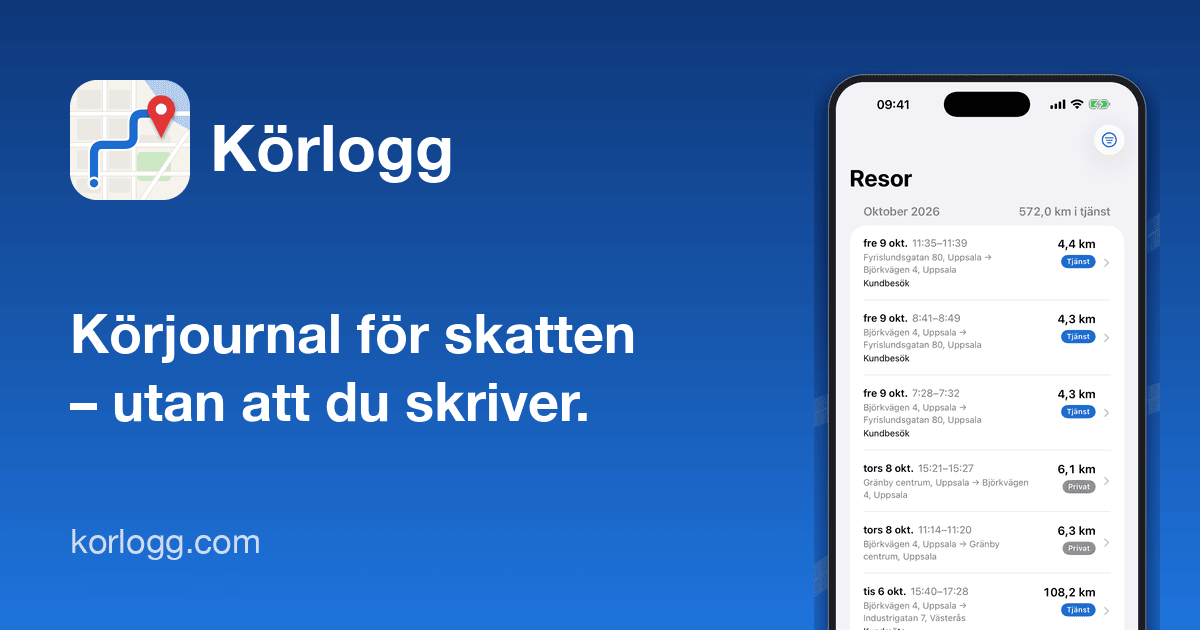
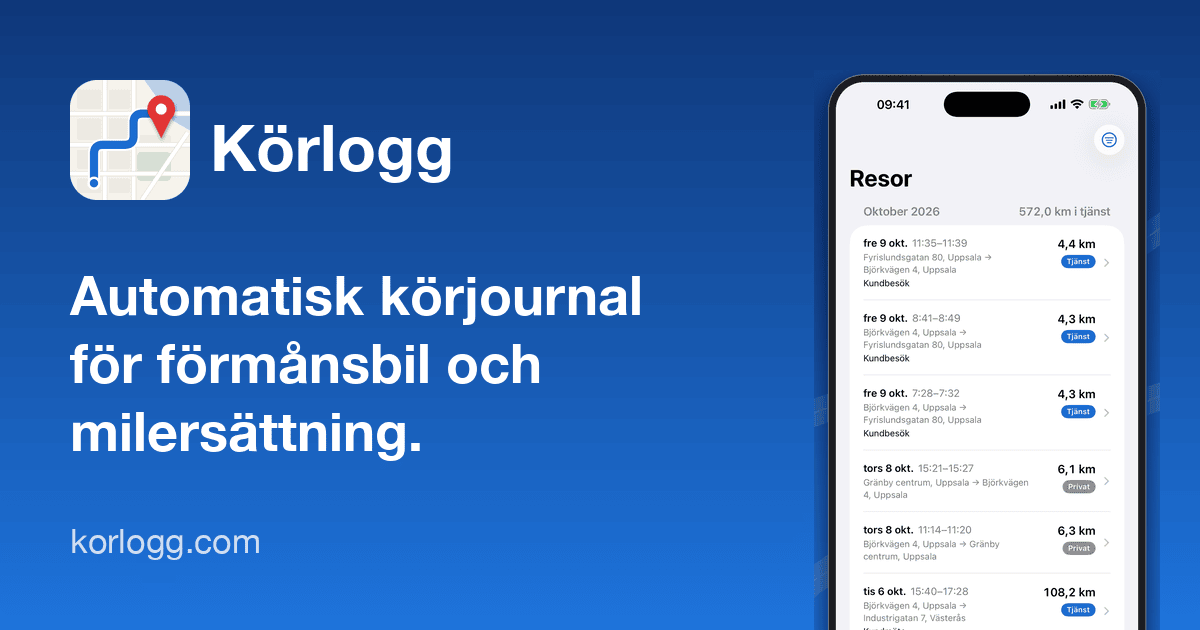
Swedish hero: Automatisk körjournal för förmånsbil och milersättning (Amir)

Changed region(s): [[0.0617, 0.4222, 0.555, 0.754]]

diff --git a/se/index.html b/se/index.html
@@ -3,7 +3,7 @@
 <head>
 <meta charset="utf-8">
 <meta name="viewport" content="width=device-width, initial-scale=1">
-<title>Körlogg – körjournal för skatten, milersättning och förmånsbil</title>
+<title>Körlogg – automatisk körjournal för förmånsbil och milersättning</title>
 <meta name="description" content="Körlogg loggar dina bilresor automatiskt. Svep tjänst eller privat och exportera körjournalen med de uppgifter Skatteverket frågar efter. Inget konto.">
 <link rel="canonical" href="https://korlogg.com/se/">
 <link rel="alternate" hreflang="en" href="https://korlogg.com/">
@@ -22,7 +22,7 @@
 <meta name="theme-color" content="#0b1220" media="(prefers-color-scheme: dark)">
 <meta property="og:type" content="website">
 <meta property="og:site_name" content="Körlogg">
-<meta property="og:title" content="Körlogg – körjournal för skatten, milersättning och förmånsbil">
+<meta property="og:title" content="Körlogg – automatisk körjournal för förmånsbil och milersättning">
 <meta property="og:description" content="Körlogg loggar dina bilresor automatiskt. Svep tjänst eller privat och exportera körjournalen med de uppgifter Skatteverket frågar efter. Inget konto.">
 <meta property="og:url" content="https://korlogg.com/se/">
 <meta property="og:image" content="https://korlogg.com/assets/og/sv.png">
@@ -30,7 +30,7 @@
 <meta property="og:image:height" content="630">
 <meta property="og:locale" content="sv_SE">
 <meta name="twitter:card" content="summary_large_image">
-<meta name="twitter:title" content="Körlogg – körjournal för skatten, milersättning och förmånsbil">
+<meta name="twitter:title" content="Körlogg – automatisk körjournal för förmånsbil och milersättning">
 <meta name="twitter:description" content="Körlogg loggar dina bilresor automatiskt. Svep tjänst eller privat och exportera körjournalen med de uppgifter Skatteverket frågar efter. Inget konto.">
 <meta name="twitter:image" content="https://korlogg.com/assets/og/sv.png">
 <link rel="icon" href="/favicon.ico" sizes="any">
@@ -61,8 +61,8 @@
 <section class="hero">
 <div class="wrap hero-grid">
 <div class="hero-text">
-<h1>Körjournal för skatten – utan att du skriver.</h1>
-<p class="lede">Milersättning, förmånsbil och Skatteverkets uppgifter – Körlogg loggar varje resa automatiskt.</p>
+<h1>Automatisk körjournal för förmånsbil och milersättning.</h1>
+<p class="lede">Varje resa loggas av sig själv – med uppgifterna Skatteverket kräver.</p>
 <div class="cta-row"><a class="store-badge" href="https://apps.apple.com/se/app/id6809322275"><picture><img src="/assets/badges/sv-black.svg" width="162" height="54" alt="Hämta i App Store"></picture></a></div>
 <p class="hero-note">För iPhone och iPad. En Android-version är under utveckling.</p>
 

diff --git a/tools/content.py b/tools/content.py
@@ -275,7 +275,7 @@ HOME = {
     ),
     # ------------------------------------------------------------------ Swedish
     "sv": dict(
-        title="Körlogg – körjournal för skatten, milersättning och förmånsbil",
+        title="Körlogg – automatisk körjournal för förmånsbil och milersättning",
         desc="Körlogg loggar dina bilresor automatiskt. Svep tjänst eller privat och exportera körjournalen med de uppgifter Skatteverket frågar efter. Inget konto.",
         h1="Körjournalen som sköter sig själv",
         lede="Körlogg märker när du börjar köra och loggar resan med GPS. Du sveper tjänst eller privat – och rapporten är klar när du behöver den.",
@@ -497,8 +497,8 @@ TAX = {
                    example="Example: 2,000 business kilometres in your own car in Germany = €600.",
                    note="Official rates in force for 2026, checked on 10 October 2026. These are the countries' rates – not the price of Körlogg.")),
     "sv": dict(
-        h1="Körjournal för skatten – utan att du skriver.",
-        lede="Milersättning, förmånsbil och Skatteverkets uppgifter – Körlogg loggar varje resa automatiskt.",
+        h1="Automatisk körjournal för förmånsbil och milersättning.",
+        lede="Varje resa loggas av sig själv – med uppgifterna Skatteverket kräver.",
         who=dict(h2="Vem är Körlogg för?", cards=[
             ("Du som har förmånsbil", "Visa att den privata körningen håller sig inom ringa omfattning – högst 10 tillfällen och 100 mil per år – med en körjournal som för sig själv."),
             ("Du som har egen firma", "Kör du i tjänsten med egen bil får du göra avdrag per mil. Körlogg samlar underlaget: datum, adresser, ärende och kilometer, resa för resa."),

diff --git a/tools/images.py b/tools/images.py
@@ -12,7 +12,7 @@ ICON = APP / "Korlogg/Resources/Assets.xcassets/AppIcon.appiconset/icon-1024.png
 LOCALES = {"en": "en-GB", "sv": "sv", "de": "de-DE", "da": "da", "no": "no", "nl": "nl-NL", "fi": "fi", "pl": "pl"}
 OG_LINES = {
     "en": ("Your mileage log for taxes", "– kept automatically."),
-    "sv": ("Körjournal för skatten", "– utan att du skriver."),
+    "sv": ("Automatisk körjournal", "för förmånsbil och", "milersättning."),
     "de": ("Ihr Fahrtenbuch fürs Finanzamt", "– automatisch geführt."),
     "da": ("Kørebog til skatten", "– helt automatisk."),
     "no": ("Kjørebok for skatten", "– helt automatisk."),
@@ -75,9 +75,10 @@ def og(rounded):
         bg.paste(ic, (70, 80), ic)
         dr = ImageDraw.Draw(bg)
         dr.text((210, 108), "Körlogg", font=bold, fill="white")
-        l1, l2 = OG_LINES[lang]
-        dr.text((70, 300), l1, font=big, fill="white")
-        dr.text((70, 368), l2, font=big, fill="white")
+        lines = OG_LINES[lang]
+        y0 = 300 if len(lines) == 2 else 262
+        for i, line in enumerate(lines):
+            dr.text((70, y0 + 68 * i), line, font=big, fill="white")
         dr.text((70, 520), "korlogg.com", font=ImageFont.truetype("/System/Library/Fonts/HelveticaNeue.ttc", 34), fill=(205, 222, 248))
         bg.save(d / f"{lang}.png", optimize=True)
         subprocess.run(["pngquant", "--force", "--quality", "70-90", "--ext", ".png", str(d / f"{lang}.png")], check=False)
